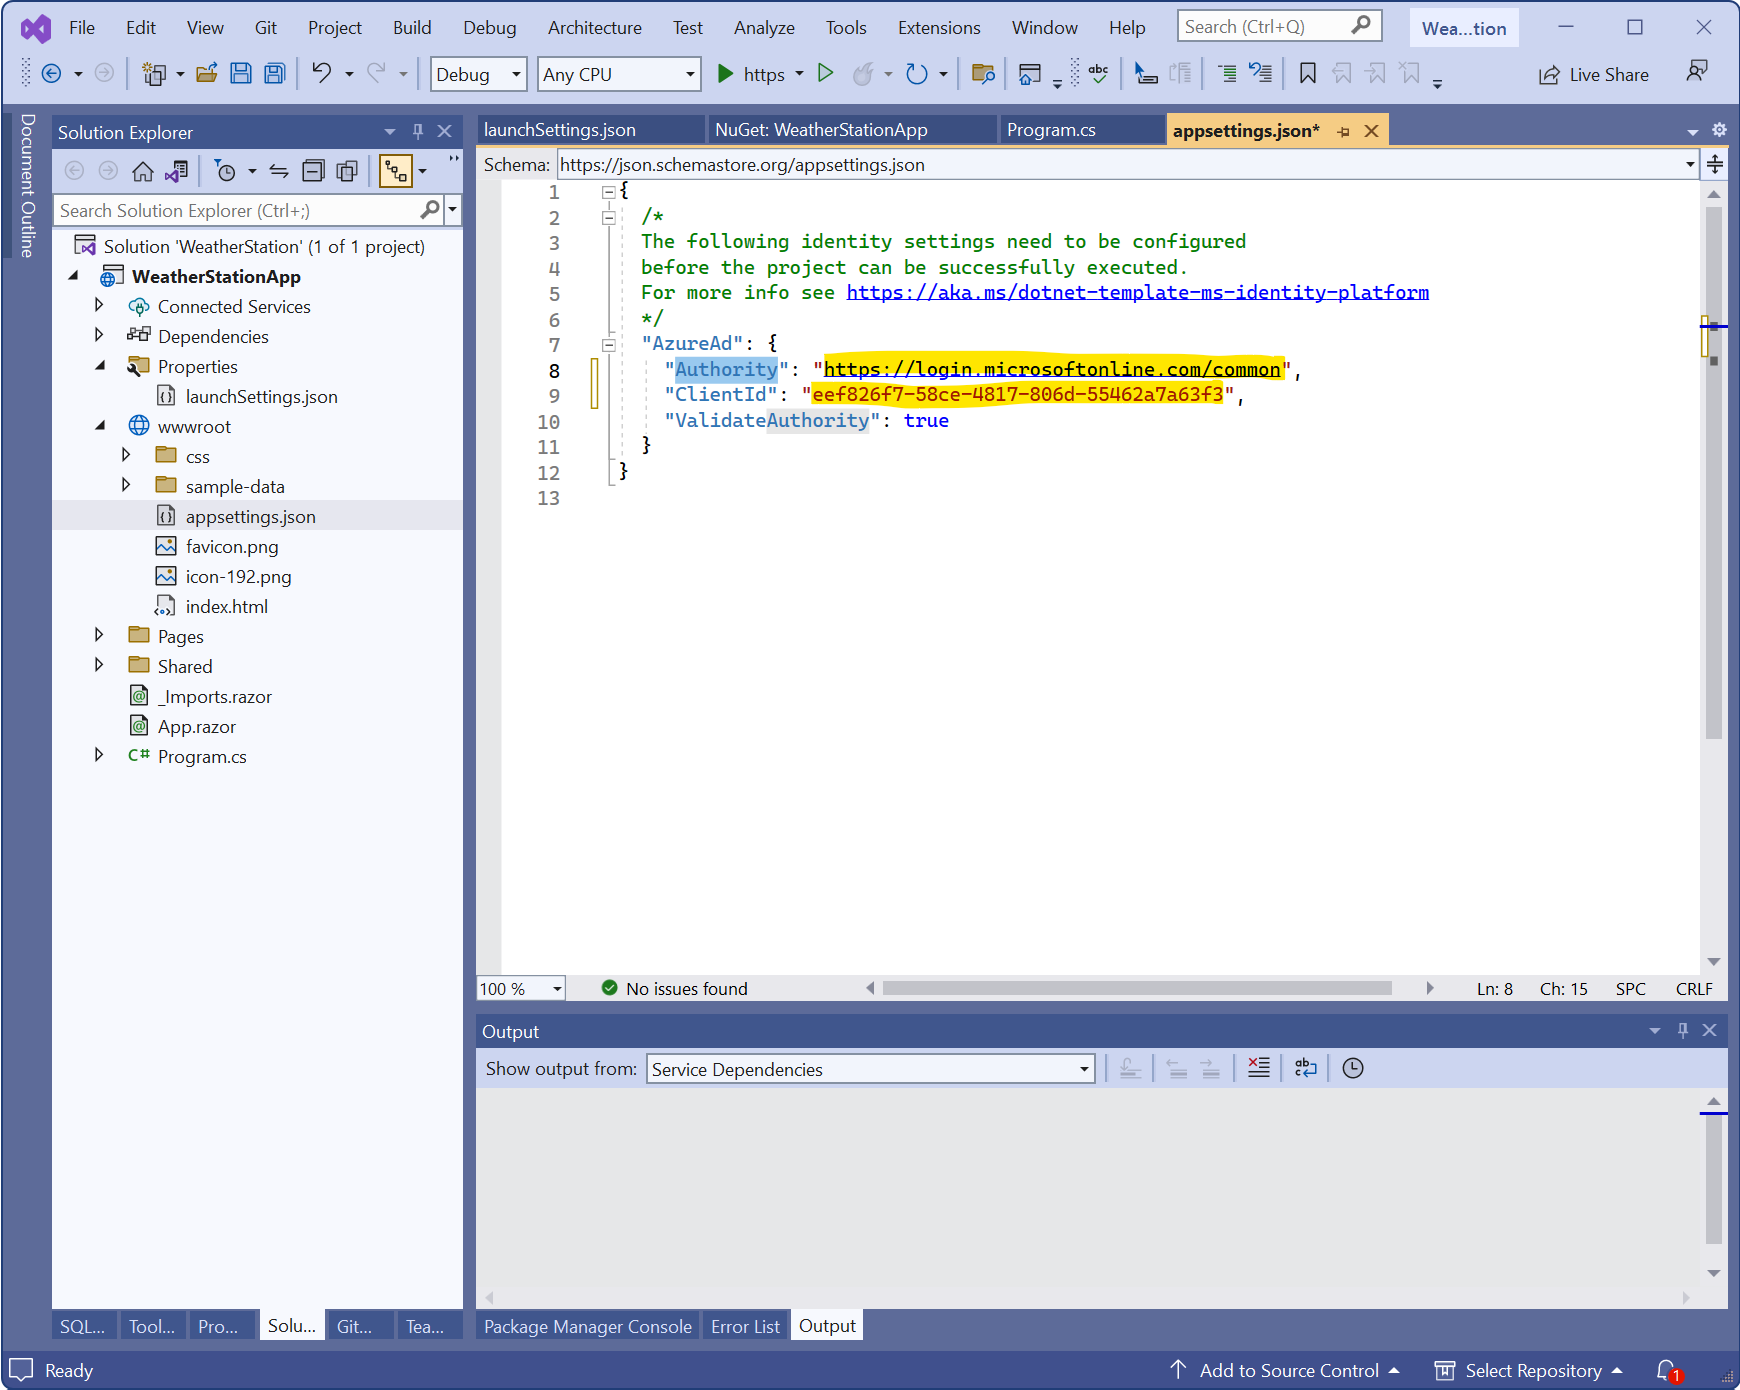
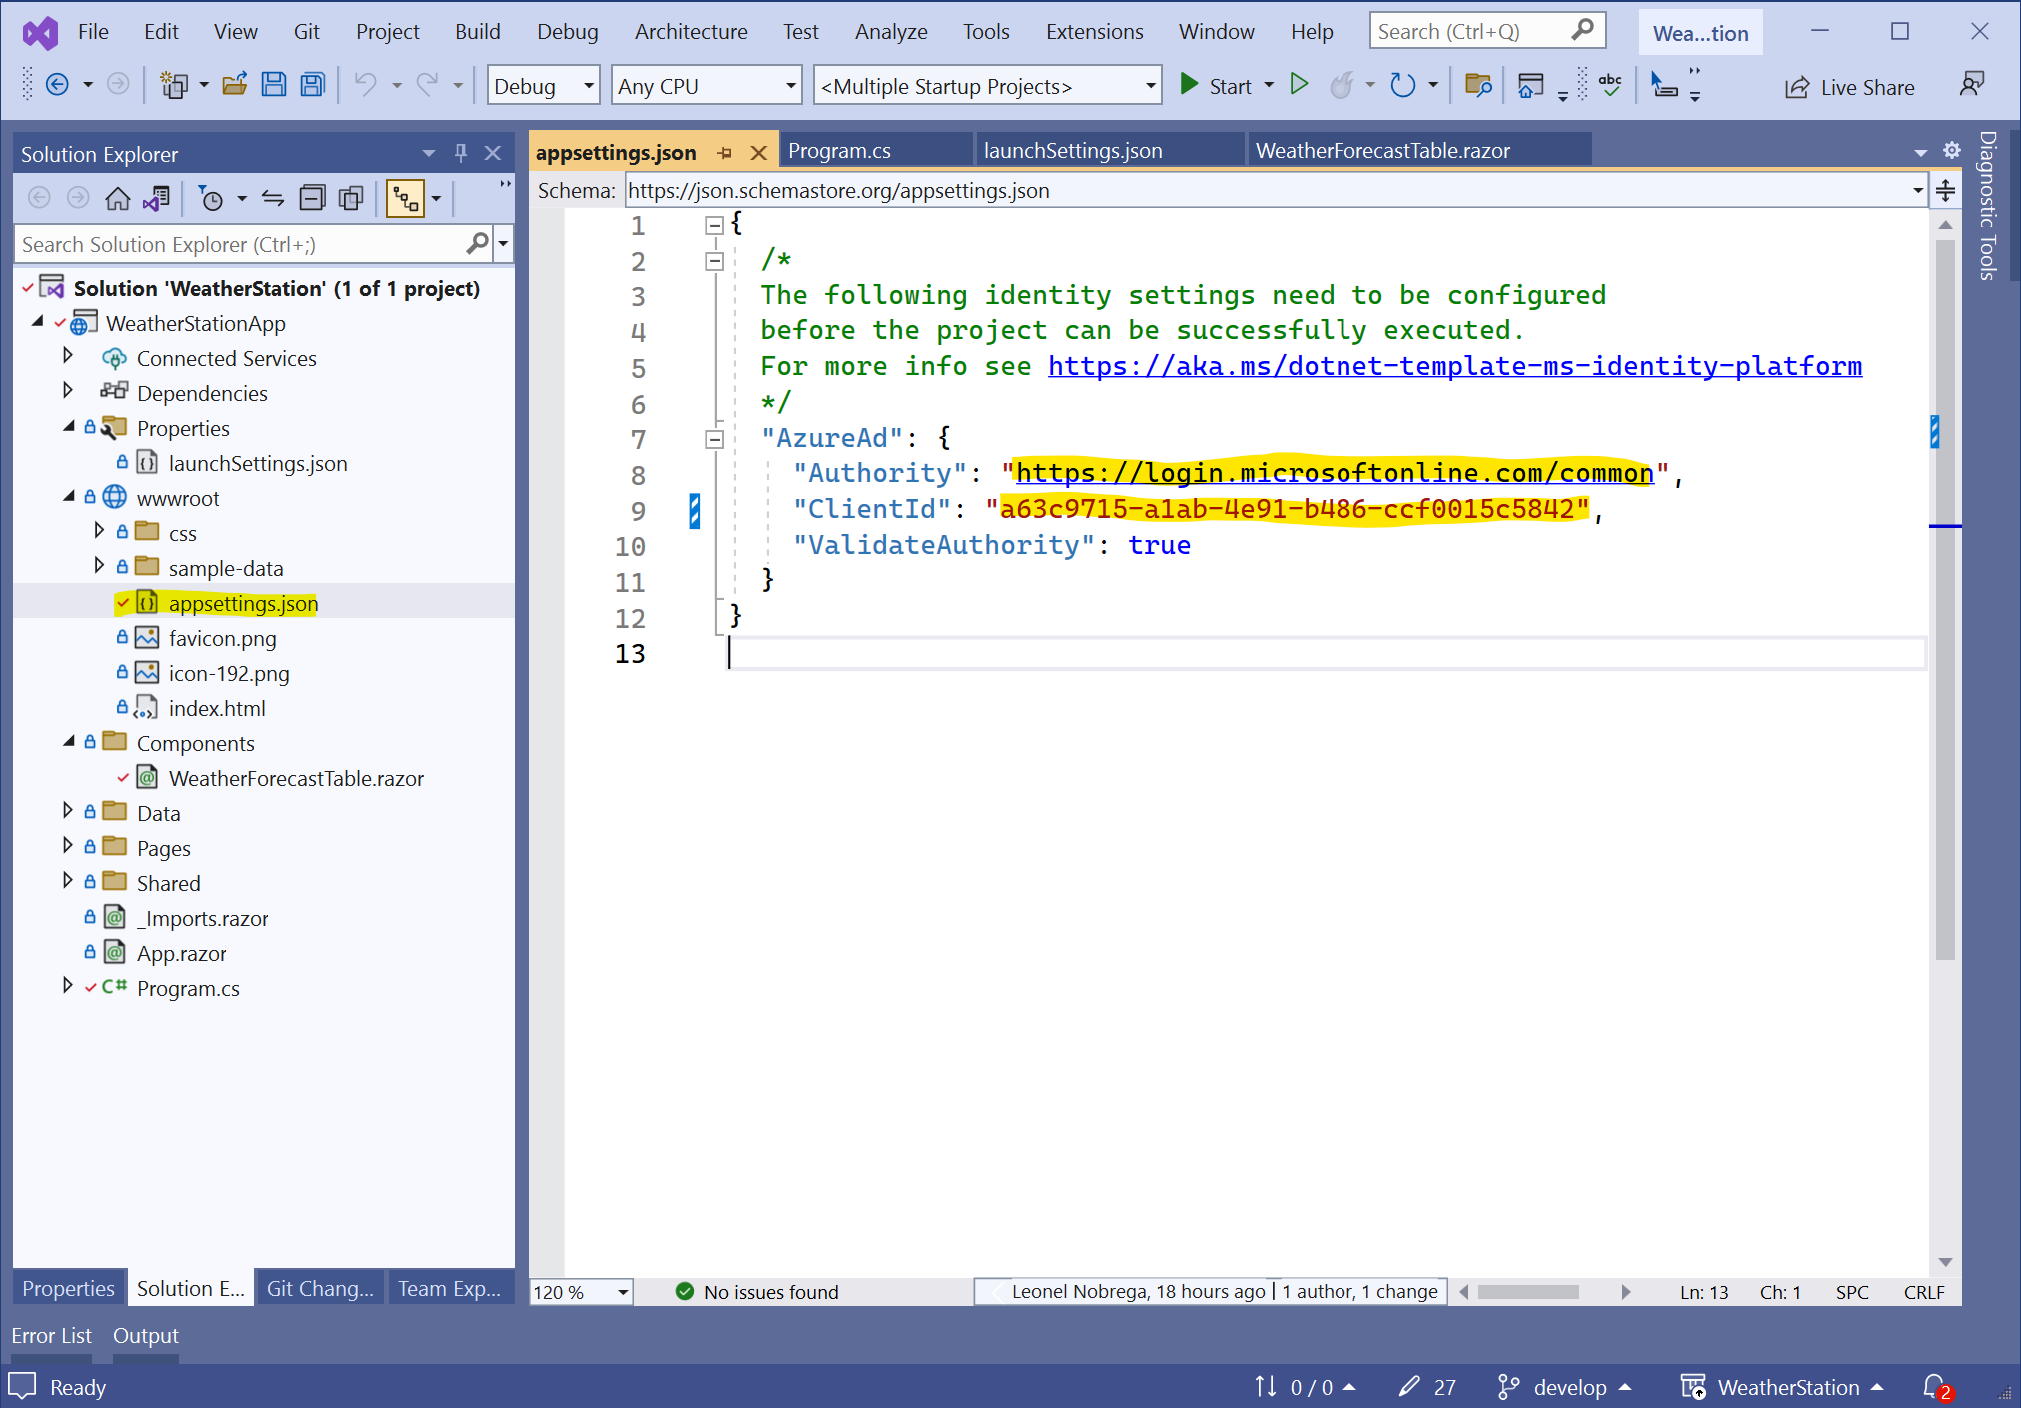
Finish tutorial

diff --git a/WeatherStationApi/Controllers/WeatherForecastController.cs b/WeatherStationApi/Controllers/WeatherForecastController.cs
@@ -1,0 +1,34 @@
+using Microsoft.AspNetCore.Authorization;
+using Microsoft.AspNetCore.Mvc;
+using Microsoft.Identity.Web.Resource;
+
+namespace WeatherStationApi.Controllers;
+
+[Authorize]
+[ApiController]
+[Route("[controller]")]
+//[RequiredScope(RequiredScopesConfigurationKey = "AzureAd:Scopes")]
+public class WeatherForecastController : ControllerBase
+{
+    private static readonly string[] Summaries = new[]
+    {
+        "Freezing", "Bracing", "Chilly", "Cool", "Mild", "Warm", "Balmy", "Hot", "Sweltering", "Scorching"
+    };
+
+    private readonly ILogger<WeatherForecastController> _logger;
+
+    public WeatherForecastController(ILogger<WeatherForecastController> logger)
+    {
+        _logger = logger;
+    }
+
+    [HttpGet(Name = "GetWeatherForecast")]
+    public IEnumerable<WeatherForecast> Get()
+    {
+        return Enumerable.Range(1, 5).Select( index => new WeatherForecast {
+            Date         = DateOnly.FromDateTime(DateTime.Now.AddDays(index)),
+            TemperatureC = Random.Shared.Next(-20, 55),
+            Summary      = Summaries[Random.Shared.Next(Summaries.Length)]
+        } ).ToArray();
+    }
+}

diff --git a/WeatherStationApi/Program.cs b/WeatherStationApi/Program.cs
@@ -1,0 +1,36 @@
+using Microsoft.AspNetCore.Authentication.JwtBearer;
+using Microsoft.Identity.Web;
+
+var builder = WebApplication.CreateBuilder(args);
+
+builder.Services.AddCors(options =>
+    options.AddPolicy(name: "AllowEveryonePolicy",
+        policy => {
+            policy.AllowAnyOrigin()
+                  .AllowAnyHeader()
+                  .AllowAnyMethod();
+        }));
+
+// Add services to the container.
+builder.Services.AddAuthentication(JwtBearerDefaults.AuthenticationScheme)
+    .AddMicrosoftIdentityWebApi(builder.Configuration.GetSection("AzureAd"));
+
+builder.Services.AddControllers();
+builder.Services.AddEndpointsApiExplorer();
+builder.Services.AddSwaggerGen();
+
+var app = builder.Build();
+
+// Configure the HTTP request pipeline.
+if (app.Environment.IsDevelopment())
+{
+    app.UseSwagger();
+    app.UseSwaggerUI();
+}
+
+app.UseDeveloperExceptionPage();
+app.UseHttpsRedirection();
+app.UseCors("AllowEveryonePolicy");
+app.UseAuthorization();
+app.MapControllers();
+app.Run();

diff --git a/WeatherStationApp/Program.cs b/WeatherStationApp/Program.cs
@@ -13,6 +13,10 @@ builder.Services.AddMsalAuthentication( options =>
 {
     options.ProviderOptions.AdditionalScopesToConsent.Add(
         "https://graph.microsoft.com/User.Read" );
+
+    options.ProviderOptions.DefaultAccessTokenScopes.Add(
+        "api://a63c9715-a1ab-4e91-b486-ccf0015c5842/WeatherStation.Read");
+
     builder.Configuration.Bind("AzureAd", options.ProviderOptions.Authentication);
 });
 

diff --git a/WeatherStationApi/WeatherForecast.cs b/WeatherStationApi/WeatherForecast.cs
@@ -1,0 +1,12 @@
+namespace WeatherStationApi;
+
+public class WeatherForecast
+{
+    public DateOnly Date { get; set; }
+
+    public int TemperatureC { get; set; }
+
+    public int TemperatureF => 32 + (int)(TemperatureC / 0.5556);
+
+    public string? Summary { get; set; }
+}

diff --git a/Tutorials/Tutorial - Blazor e MSAL.md b/Tutorials/Tutorial - Blazor e MSAL.md
@@ -8,7 +8,7 @@ Para a realização deste tutorial é necessário o seguinte:
 * Visual Studio 2022
 * Uma conta Microsoft com acesso ao portal Azure (https://portal.azure.com)
 
-### Autenticação de uma aplicação cliente usando o Blazor 
+### Autenticação de uma aplicação Cliente usando o Blazor 
 
 O Blazor pode ser utilizado para criar aplicações servidor (server side) ou aplicações cliente (client side). Neste tutorial, vamos começar por criar uma aplicação cliente.
 
@@ -86,12 +86,32 @@ Para aceder ao portal da Azure (https://portal.azure.com) é necessário ter uma
 
     ### Configurar a aplicação com os  valores de registo
 
-    1. Editar o ficheiro ``appsettings.json`` e colocar os valores de ``"ClientId"`` e ajustar o valor de ``"Authority"``
+    1. Editar o ficheiro ``appsettings.json`` e colocar os valores de ``"ClientId"`` e ajustar o valor de ``"Authority"``. O valor de ``"Authority"`` deverá ser uma das seguintes:
 
+       * Para contas "Personal Microsoft Accounts"
+
+       ```c#
+       "Authority": "https://login.microsoftonline.com/consumers"
+       ```
+    
+       * Para contas de uma organização 
+    
+       ```c#
+       "Authority": "https://login.microsoftonline.com/<tenant-id>"
+       ```
+
+       * Para contas organizacionais e pessoais
+    
+       ```c#
+       "Authority": "https://login.microsoftonline.com/common"
+       ```
+    
+       Escolhemos a terceira opção:
+    
        ![4.0 - Configure](./images/4.0-Configure.png)
-
+    
     2. No ficheiro ``Program.cs`` adicionar a seguinte configuração para permitir o acesso aos dados de perfil do utilizador ("https://graph.microsoft.com/User.Read")
-
+    
        ```c#
        using Microsoft.AspNetCore.Components.Web;
        using Microsoft.AspNetCore.Components.WebAssembly.Hosting;
@@ -114,20 +134,116 @@ Para aceder ao portal da Azure (https://portal.azure.com) é necessário ter uma
        
        await builder.Build().RunAsync();
        ```
-
+    
     3. Realizar alguma "reengenharia" do código presente na página ``FetchData.razor``
-
+    
        a. Crie uma diretoria **Data** no projeto e mova o objeto **WeatherForecast** para essa diretoria.
-
+    
           ![4.1 - Configure](./images/4.1-Configure.png)
-
+    
+       
+    
        b. Crie uma pasta **Components** e crie uma componente Blazor designada por ``WeatherForecastTable.razor``
-
+    
           ![4.2 - Configure](./images/4.2-Configure.png)
-
+    
        c. Edite a página ``FetchData.razor``  de forma a proteger a view
-
+    
           ![4.3 - Configure](./images/4.3-Configure.png)
     
-    4. Execute e teste
+    4. Execute e teste.
 
+### Criação de uma API (Application Programming Interface) segura
+
+#### Criação de um projeto do tipo ASP.NET Core WebA API
+
+1. Crie o projeto
+
+   ```c#
+   dotnet new webapi -n WeatherStationApi -au SingleOrg
+   ```
+
+2. Adicione à solução
+
+   ```
+   dotnet sln .\WeatherStation.sln add .\WeatherStationApi\WeatherStationApi.csproj
+   ```
+
+3. Atualize o pacote ``Microsoft.Identity.Web``
+
+   ```
+   dotnet add WeatherStationApi package Microsoft.Identity.Web
+   ```
+
+4. Atualize o pacote
+
+   ```
+   dotnet add WeatherStationApi package Swashbuckle.AspNetCore
+   ```
+
+5. Verifique as versões dos pacotes
+
+   ``` 
+    dotnet list package
+   ```
+
+   ```c#
+   Project 'WeatherStationApp' has the following package references
+      [net7.0]:
+      Top-level Package                                            Requested   Resolved
+      > Microsoft.AspNetCore.Components.WebAssembly                7.0.5       7.0.5
+      > Microsoft.AspNetCore.Components.WebAssembly.DevServer      7.0.5       7.0.5
+      > Microsoft.Authentication.WebAssembly.Msal                  *           7.0.5
+   
+   Project 'WeatherStationApi' has the following package references
+      [net7.0]:
+      Top-level Package                                        Requested   Resolved
+      > Microsoft.AspNetCore.Authentication.JwtBearer          7.0.5       7.0.5
+      > Microsoft.AspNetCore.Authentication.OpenIdConnect      7.0.5       7.0.5
+      > Microsoft.AspNetCore.OpenApi                           7.0.5       7.0.5
+      > Microsoft.Identity.Web                                 2.9.0       2.9.0
+      > Swashbuckle.AspNetCore                                 6.4.0       6.4.0
+   
+   ```
+
+#### Complementar as definições no portal Azure (App registrations)
+
+1. Aceder à operação **Integration assistant **
+
+   <img src="./images/5.1-Azure.png" alt="5.1-Azure" style="zoom:40%;" />
+
+2. Configurar **Configure a unique Application ID URI.**
+
+   <img src="./images/5.2-Azure.png" alt="5.2-Azure" style="zoom:40%;" />
+
+3. Definir os valores de **Application ID**
+
+   <img src="./images/5.4-Azure.png" alt="5.4-Azure" style="zoom: 40%;" />
+
+4. Adicionar uma aplicação cliente (vamos utilizar o id da própria aplicação)
+
+   <img src="./images/5.5-Azure.png" alt="5.5-Azure" style="zoom:40%;" />
+
+   #### Atualizar o projeto
+
+   1. Alterar as configurações em app
+
+      <img src="./images/6.1-WebAPI.png" alt="6.1-WebAPI" style="zoom:40%;" />
+
+   2. Alterar o ficheiro ``Program.cs`` de forma a permitir o acesso de qualquer origem (Cors)
+
+      <img src="./images/6.2-WebAPI.png" alt="6.2-WebAPI" style="zoom:40%;" />
+
+   3. Adicionar o "scope" de acesso na aplicação ``WeatherStationApp``
+
+      <img src="./images/6.3-WebAPI.png" alt="6.4-WebAPI" style="zoom:40%;" />
+
+   4. Injetar os objetos ``TokenProvider`` e ``AuthenticationStateProvider``
+   
+      <img src="./images/6.4-WebAPI.png" alt="6.4-WebAPI" style="zoom:40%;" />
+   
+   5. Requisitar e enviar o token de authenticação
+   
+      <img src="./images/6.5-WebAPI.png" alt="6.5-WebAPI" style="zoom:40%;" />
+   
+   7. Executar e testar.
